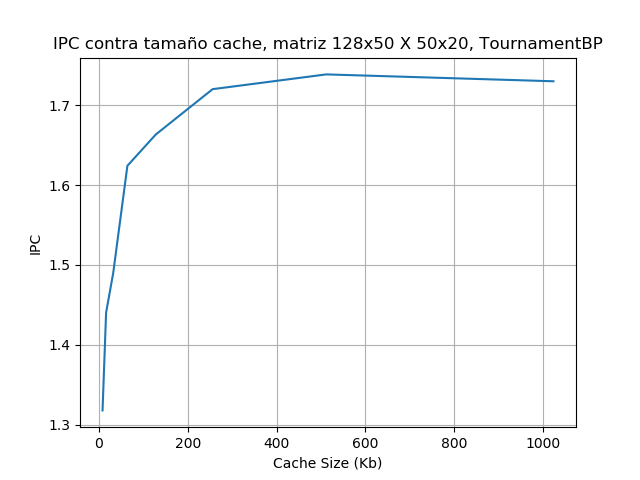
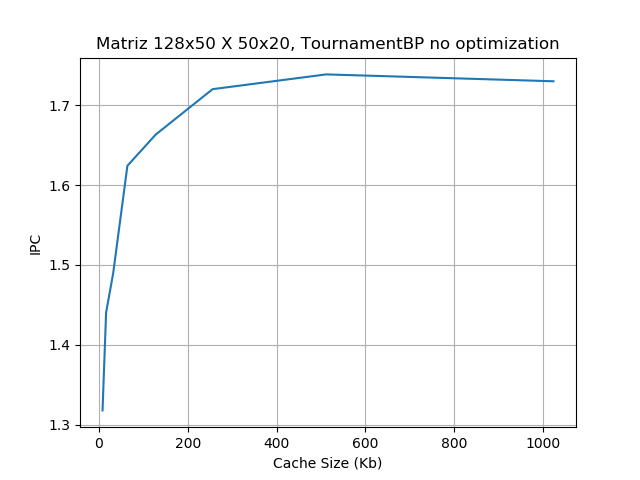
cahnge rename

Changed region(s): [[0.0625, 0.0625, 0.9375, 0.125]]

diff --git a/gem5_analyser.py b/gem5_analyser.py
@@ -76,9 +76,9 @@ def plotIPC(dataset, BP, LU, I, J, K, file):
 
     fig, ax = plt.subplots()
     ax.plot(x, y)
-
+    loop = " with -funroll-loops" if LU else " no optimization"
     ax.set(xlabel='Cache Size (Kb)', ylabel='IPC',
-        title=("IPC contra tamaño cache, matriz "+str(I)+"x"+str(J)+" X "+str(J)+"x"+str(K)+", "+ BP))
+        title=("Matriz "+str(I)+"x"+str(J)+" X "+str(J)+"x"+str(K)+", "+ BP+ loop))
     ax.grid()
 
     fig.savefig(file)
